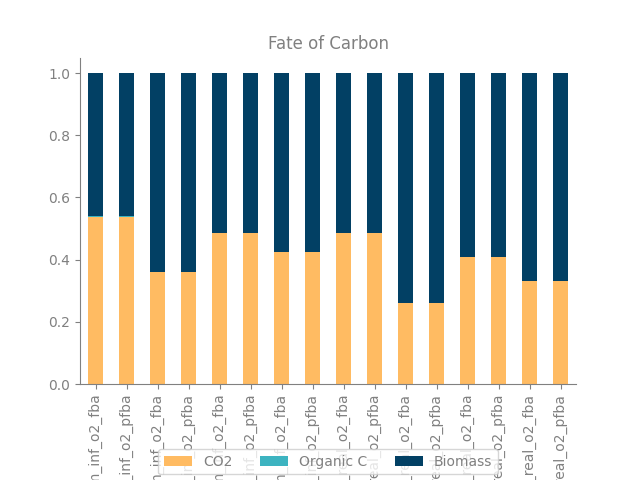
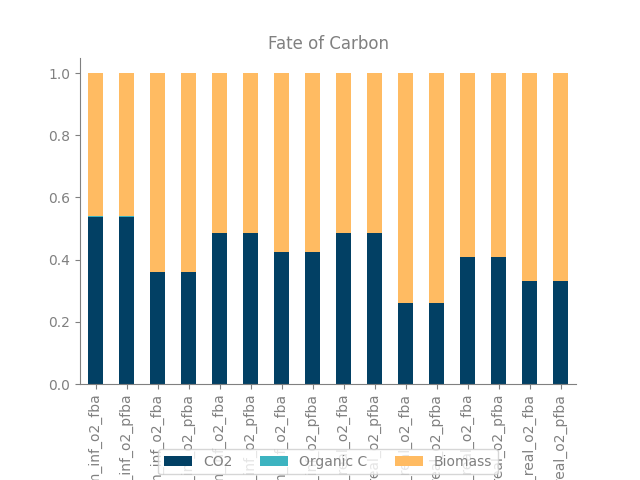
Fix order of bars in c fates

Changed region(s): [[0.125, 0.1562, 0.9062, 0.8125], [0.5938, 0.9375, 0.6562, 0.9688], [0.25, 0.9375, 0.3125, 0.9688]]

diff --git a/plot_styles.py b/plot_styles.py
@@ -24,8 +24,10 @@ def set_plot_style(g):
 def carbon_fates_bar(data):
     # Check that the column names are correct
     assert set(data.columns) == set(["co2", "organic_c", "biomass"])
+    # Set the column order
+    data = data[["biomass", "organic_c", "co2"]]
     # Plot the stacked bar plot
-    g = data.plot(kind="bar", stacked=True, color=[LIGHT_ORANGE, LIGHT_BLUE, DARK_BLUE])
+    g = data.plot(kind="bar", stacked=True, color=[DARK_BLUE, LIGHT_BLUE, LIGHT_ORANGE])
     # Move the legend outside of the plot
     custom_labels = ["CO2", "Organic C", "Biomass"]
     lgd = plt.legend(
